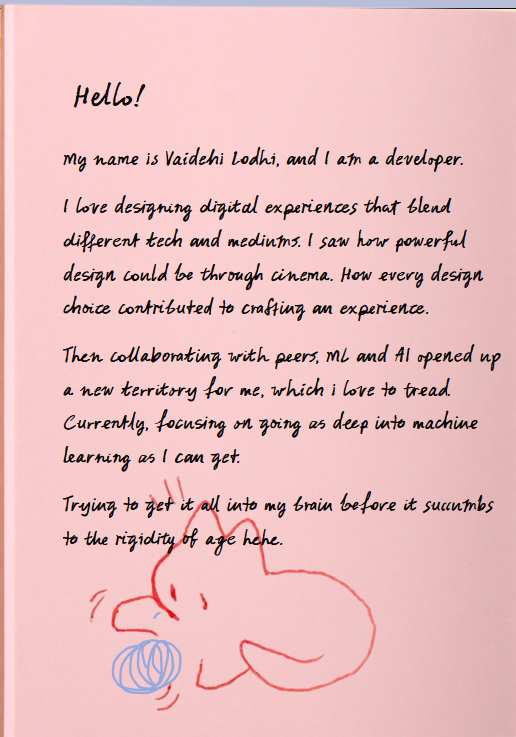
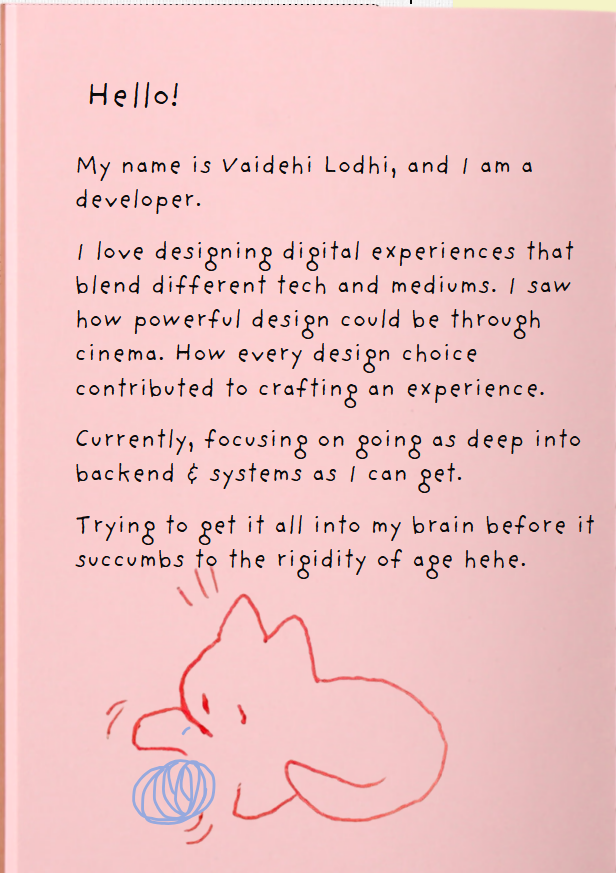
cleanup

diff --git a/src/components/stacknav/stack-nav.tsx b/src/components/stacknav/stack-nav.tsx
@@ -153,12 +153,13 @@ export const StackNav = forwardRef<StackNavHandle, StackNavProp> (({onStackChang
     gsap.set(projectRef.current,  { y: slotOf.current[0] });
     gsap.set(skillSetRef.current, { y: slotOf.current[1] });
     initDraggables();
+
   }, { scope: containerRef });
 
   return (
     <div
       ref={containerRef}
-      className="absolute left-0 ml-10 top-[100px] md:px-20 w-[560px]"
+      className="absolute left-0 ml-10 top-[130px] md:px-20 w-[560px]"
       style={{
         height: 610,
         translate: "none",
@@ -179,7 +180,7 @@ export const StackNav = forwardRef<StackNavHandle, StackNavProp> (({onStackChang
           zIndex: 3000,
         }}
       >
-        <div className="relative w-[100px] h-[150px] mt-5">
+        <div className="relative w-[100px] h-[150px] mt-5 cursor-pointer">
           <Image
             width={100} height={100}
             alt="/diaryPage"
